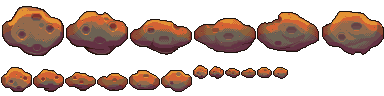
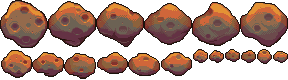
Edited asteroids to be more round-shaped

diff --git a/src/entities/Asteroid.cpp b/src/entities/Asteroid.cpp
@@ -29,10 +29,7 @@ Asteroid::Asteroid(Size size, float angle):
 
 void Asteroid::onUpdate(float frametime)
 {
-	sf::Vector2f pos = getPosition();
-	pos.x += m_speed.x * frametime;
-	pos.y += m_speed.y * frametime;
-	setPosition(pos);
+	move(m_speed.x * frametime, m_speed.y * frametime);
 	rotate(m_rotation_speed * frametime);
 }
 
@@ -50,6 +47,7 @@ void Asteroid::onDestroy()
 				asteroid->setPosition(pos);
 				EntityManager::getInstance().addEntity(asteroid);
 			}
+			SoundSystem::playSound("asteroid-break.ogg", 0.5f);
 			break;
 		case MEDIUM:
 			// Create 3 small asteroids
@@ -59,29 +57,30 @@ void Asteroid::onDestroy()
 				asteroid->setPosition(pos);
 				EntityManager::getInstance().addEntity(asteroid);
 			}
+			SoundSystem::playSound("asteroid-break.ogg", 0.75f);
 			break;
 		default:
+			SoundSystem::playSound("asteroid-break.ogg", 1.f);
 			break;
 	}
-	SoundSystem::playSound("asteroid-break.ogg");
 	EntityManager::getInstance().createImpactParticles(getPosition(), 10);
 }
 
 
 void Asteroid::setRandomImage()
 {
-
-	int x = math::rand(0, 5); // nb sprites = 6
+	// Pick a random sprite (each size has 6 sprites)
+	int x = math::rand(0, 5);
 	switch (m_size)
 	{
 		case BIG:
-			setTextureRect(sf::IntRect(0 + x * 64, 0, 64, 64)); // 64px
+			setTextureRect(sf::IntRect(0 + x * 48, 0, 48, 48)); // 48*48px
 			break;
 		case MEDIUM:
-			setTextureRect(sf::IntRect(0 + x * 32, 64, 32, 32)); // 32px
+			setTextureRect(sf::IntRect(0 + x * 32, 48, 32, 32)); // 32*32px
 			break;
 		case SMALL:
-			setTextureRect(sf::IntRect(192 + x * 16, 64, 16, 16)); // 16px
+			setTextureRect(sf::IntRect(192 + x * 16, 48, 16, 16)); // 16*16px
 			break;
 	}
 }
